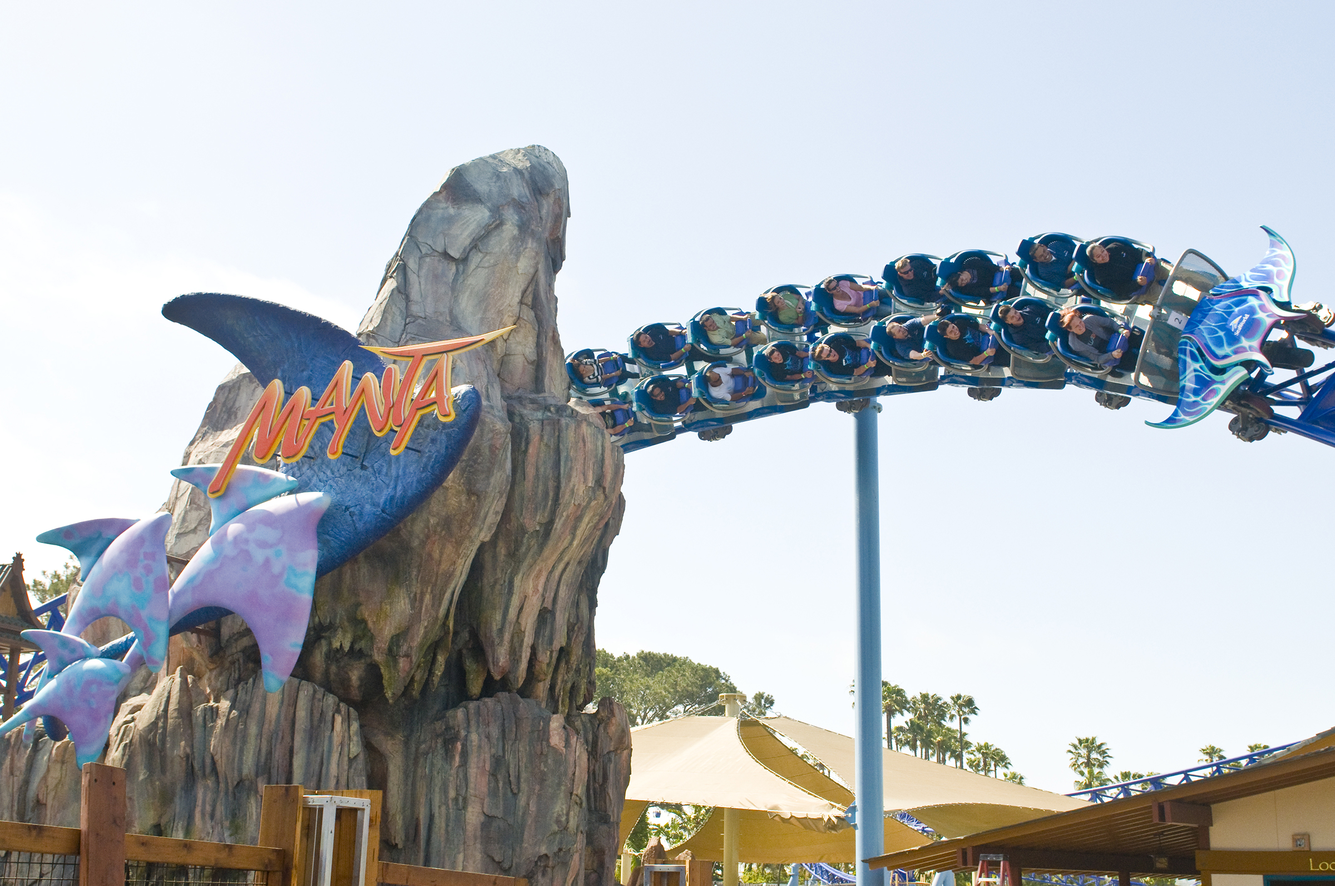
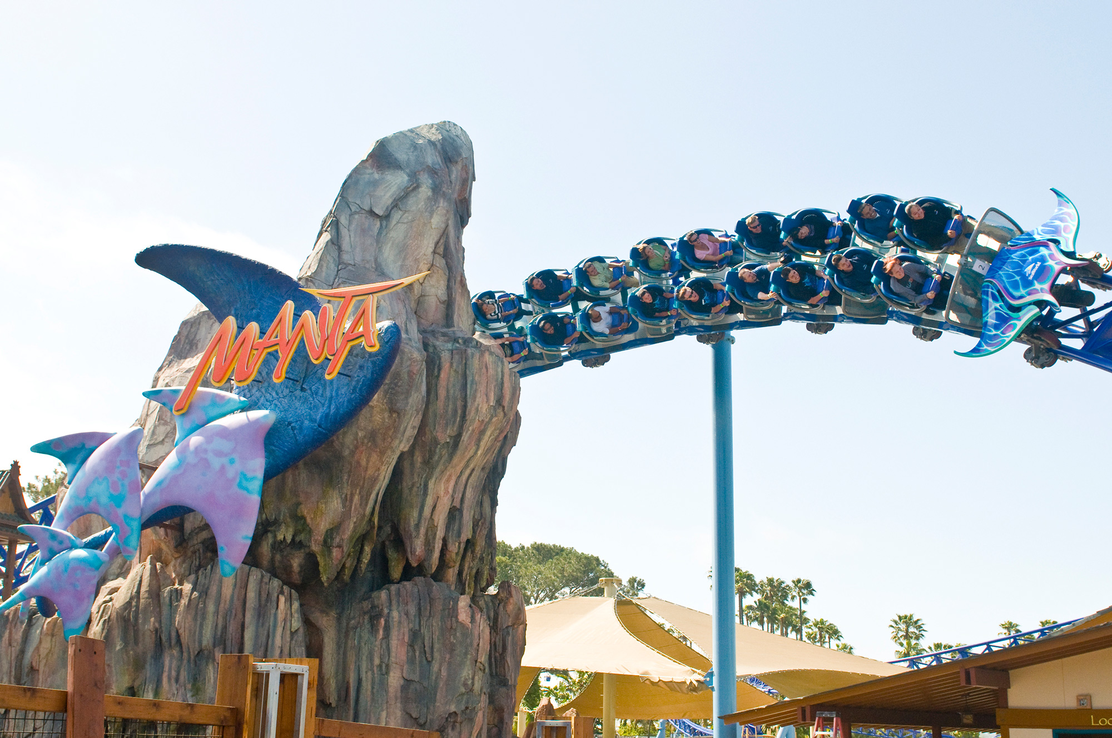
Theme Parks Images Optimized Credited, and reflowed

diff --git a/index.html b/index.html
@@ -1543,7 +1543,8 @@
 			<li class="hideContent">
 				<h4>SeaWorld San Diego</h4>
 				<div class="text-box">
-					<p>Spanning 190 acres, SeaWorld is all about bringing you and your kids on a wild journey under the sea. You can watch sea lions perform, get face-to-face with sharks that swim in a mammoth underwater tunnel, check out giant turtles at Turtle Reef, and hang out with more than 300 penguins at the Penguin Encounter. SeaWorld also features several adrenaline-pumping rides, including the Manta high-speed roller coaster. Meanwhile, tinier tots can visit the Sesame Street Bay of Play to ride Elmo’s Flying Fish and meet their favorite Sesame Street pals.</p>
+					<p>Spanning 190 acres, SeaWorld is all about bringing you and your kids on a wild journey under the sea. You can watch sea lions perform, get face-to-face with sharks that swim in a mammoth underwater tunnel, check out giant turtles at Turtle Reef, and hang out with more than 300 penguins at the Penguin Encounter. SeaWorld also features several adrenaline-pumping rides, including the Manta high-speed roller coaster. Meanwhile, tinier tots can visit the Sesame Street Bay of Play to ride Elmo’s Flying Fish and meet their favorite <span class="italc">Sesame Street</span> pals.</p>
+					<p class="italc cred">Getty Images</p>
 				</div>
 			</li>
 		</ul>
@@ -1555,6 +1556,7 @@
 				<h4>Knott’s Berry Farm</h4>
 				<div class="text-box">
 					<p>Immerse yourself in the thrills of the California gold rush at Knott’s Berry Farm’s authentic Ghost Town, featuring buildings from actual mining and ghost towns and other Old West attractions. In the town of Calico, hang at the Calico Saloon and catch a cowboy-themed show on the Calico stage. Meanwhile you can descend into the depths of the farm’s “gold mine” to see the famed Calico Glory Hole. But Knott’s Berry Farm is definitely not stuck in the past. The park also features numerous thrill rides, a water park, and roller coasters. And this summer it will unveil Voyage to the Iron Reef, a new 4-D interactive ride—definitely of the 21st Century.</p>
+					<p class="italc cred">Getty Images</p>
 				</div>
 			</li>
 		</ul>
@@ -1566,6 +1568,7 @@
 				<h4>Six Flags Magic Mountain</h4>
 				<div class="text-box">
 					<p>Boasting 19 hair-raising roller coasters, this park is perfect for teenage thrill-seekers. New high-octane attractions include The New Revolution Virtual Reality Roller Coaster, a ride created in partnership with Samsung Gear VR and Oculus, where riders enter a virtual world with high-resolution imagery and 360-degree views synchronized to the action of the coaster. There’s also the newly renovated Twisted Colossus, the park’s famed wood/steel hybrid roller coaster that now has even more thrills. Later, cool down with a variety of tamer rides, catch a Looney Tunes show, or dine at one of more than 20 eateries.</p>
+					<p class="italc cred">Getty Images</p>
 				</div>
 			</li>
 		</ul>
@@ -1576,7 +1579,8 @@
 			<li class="hideContent">
 				<h4>Disneyland Resort</h4>
 				<div class="text-box">
-					<p>Disneyland first opened its doors 60 years ago with a handful of rides and costumed characters strolling the grounds. Today the original site of the park boasts two separate theme parks—Disneyland and Disney California Adventure—featuring over 100 attractions and shows that revolve around Walt Disney’s beloved storybook and movie characters, but with some current additions. You can still “fly” with Dumbo and spin in a Wonderland teacup. But now you can also take a submarine voyage with Nemo and zoom on a high-octane race through Cars Land. There are also action movie-themed adventures, such as the Indiana Jones™ thrill ride and several exciting Star Wars–themed attractions that have recently made their debut.</p>
+					<p>Disneyland first opened its doors 60 years ago with a handful of rides and costumed characters strolling the grounds. Today the original site of the park boasts two <span class="italc">separate</span> theme parks—Disneyland and Disney California Adventure—featuring over 100 attractions and shows that revolve around Walt Disney’s beloved storybook and movie characters, but with some current additions. You can still “fly” with Dumbo and spin in a Wonderland teacup. But now you can also take a submarine voyage with Nemo and zoom on a high-octane race through Cars Land. There are also action movie-themed adventures, such as the Indiana Jones™ thrill ride and several exciting Star Wars–themed attractions that have recently made their debut.</p>
+					<p class="italc cred">Getty Images</p>
 				</div>
 			</li>
 		</ul>
@@ -1588,6 +1592,7 @@
 				<h4>LEGOLAND California</h4>
 				<div class="text-box">
 					<p>With over 60 rides, shows, a miniature golf course, hotel, and two water parks, LEGOLAND is hardly a vacation spot solely dedicated to plastic bricks. LEGO® fans can take in “The LEGO Movie 4D A New Adventure,” scoot around in mini LEGO® cars, and even tour a LEGO® factory. Recently LEGOLAND unveiled LEGO® Ninjago Ride, an interactive attraction where you launch fireballs, shockwaves, and lightning bolts with your hands to defeat the Great Devourer and earn ninja status. Also be sure to check out Miniland USA, which recreates entire U.S. cities using millions of LEGO® bricks.</p>
+					<p class="italc cred">Getty Images</p>
 				</div>
 			</li>
 		</ul>
@@ -1599,6 +1604,7 @@
 				<h4>Castle Park, Riverside</h4>
 				<div class="text-box">
 					<p>This classic amusement park offers 28 rides geared toward younger children, including bumper cars, the Antique Car ride, and the Whip, a centrifugal ride scaled down for kids. Pint-size thrill seekers will get their adrenaline fix on the Screamin’ Demon and the Fireball. New this summer is Castle Park’s five-level water playground, Buccaneer Cove, which features water slides, water tunnels, and water spray cannons. But perhaps the park’s biggest claims to fame are its four 18-hole championship miniature-golf courses and its Castle Arcade that offers 200 state-of-the-art video games.</p>
+					<p class="italc cred">Getty Images</p>
 				</div>
 			</li>
 		</ul>
@@ -1610,6 +1616,7 @@
 				<h4>Raging Waters, Los Angeles</h4>
 				<div class="text-box">
 					<p>Raging Waters is California's largest water theme park and features gallons of rides, slides, children’s activity pools, and obstacle courses. The park’s latest attraction is the Aqua Rocket, the country’s first hydro-magnetic coaster that takes four people at a time on a high-thrills water ride. There’s also Neptune’s Fury, a 600-foot ride that plunges a four-man raft into total darkness down a 60-foot drop at 30 mph. When you want to unwind from an action-packed day, grab a raft and float lazily down the Amazon Adventure River.</p>
+					<p class="italc cred">Getty Images</p>
 				</div>
 			</li>
 		</ul>
@@ -1620,9 +1627,9 @@
 			<li class="hideContent">
 				<h4>Universal Studios Hollywood</h4>
 				<div class="text-box">
-					<p>Discover the excitement of movie-making magic at one of Southern California’s most legendary theme parks, set on the grounds of an active film and television studio. In addition to spine-tingling rides that land you in the center of scenes from movies, you can see where those films were made on Universal’s famed Studio Tour. The new Wizarding World of Harry Potter™ lets you explore the magic of Hogwarts™ Castle, peruse the shops in Hogsmeade™, and experience heart-pounding Harry Potter–themed rides. Meanwhile, Springfield, which opened last year, lets you visit the town made famous in the hit animated series The Simpsons™. Grab a bite at Krusty Burger, and rocket through Krustyland on the popular Simpsons™ ride.
-
-					<ital>HARRY POTTER characters, names and related indicia are © & ™ Warner Bros. Entertainment Inc. Harry Potter Publishing Rights © JKR. (s16) © 2016 Universal Studios. All rights reserved.</ital>
+					<p>Discover the excitement of movie-making magic at one of Southern California’s most legendary theme parks, set on the grounds of an active film and television studio. In addition to spine-tingling rides that land you in the center of scenes from movies, you can see where those films were made on Universal’s famed Studio Tour. The new Wizarding World of Harry Potter™ lets you explore the magic of Hogwarts™ Castle, peruse the shops in Hogsmeade™, and experience heart-pounding Harry Potter–themed rides. Meanwhile, Springfield, which opened last year, lets you visit the town made famous in the hit animated series The Simpsons™. Grab a bite at Krusty Burger, and rocket through Krustyland on the popular Simpsons™ ride.</p>
+					<p><span class="italc">HARRY POTTER characters, names and related indicia are © & ™ Warner Bros. Entertainment Inc. Harry Potter Publishing Rights © JKR. (s16) © 2016 Universal Studios. All rights reserved.</span>
+					<p class="italc cred">Getty Images</p>
 					</p>
 				</div>
 			</li>

diff --git a/css/style.css b/css/style.css
@@ -1513,7 +1513,7 @@ ul.scroll-list {
 	background-image: url("../images/theme-parks/castle-park1.jpg");
 }
 #theme-parks a .hideContentWrap#raging-waters {
-	background-image: url("../images/theme-parks/RagingWaters_Supplied_RWSD_AquaRocket_2015_RC6530.jpg");
+	background-image: url("../images/theme-parks/raging-waters1.jpg");
 }
 #theme-parks a .hideContentWrap#universal {
 	background-image: url("../images/theme-parks/universal2.jpg");
